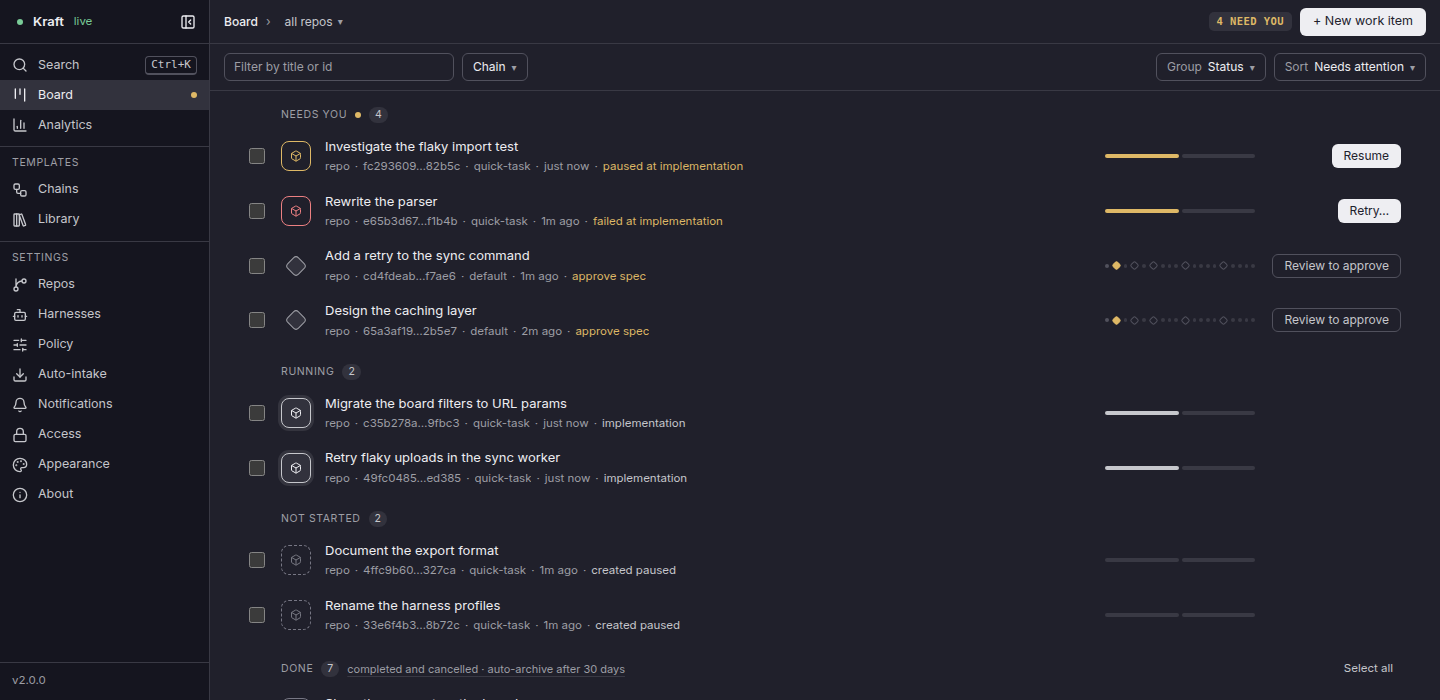
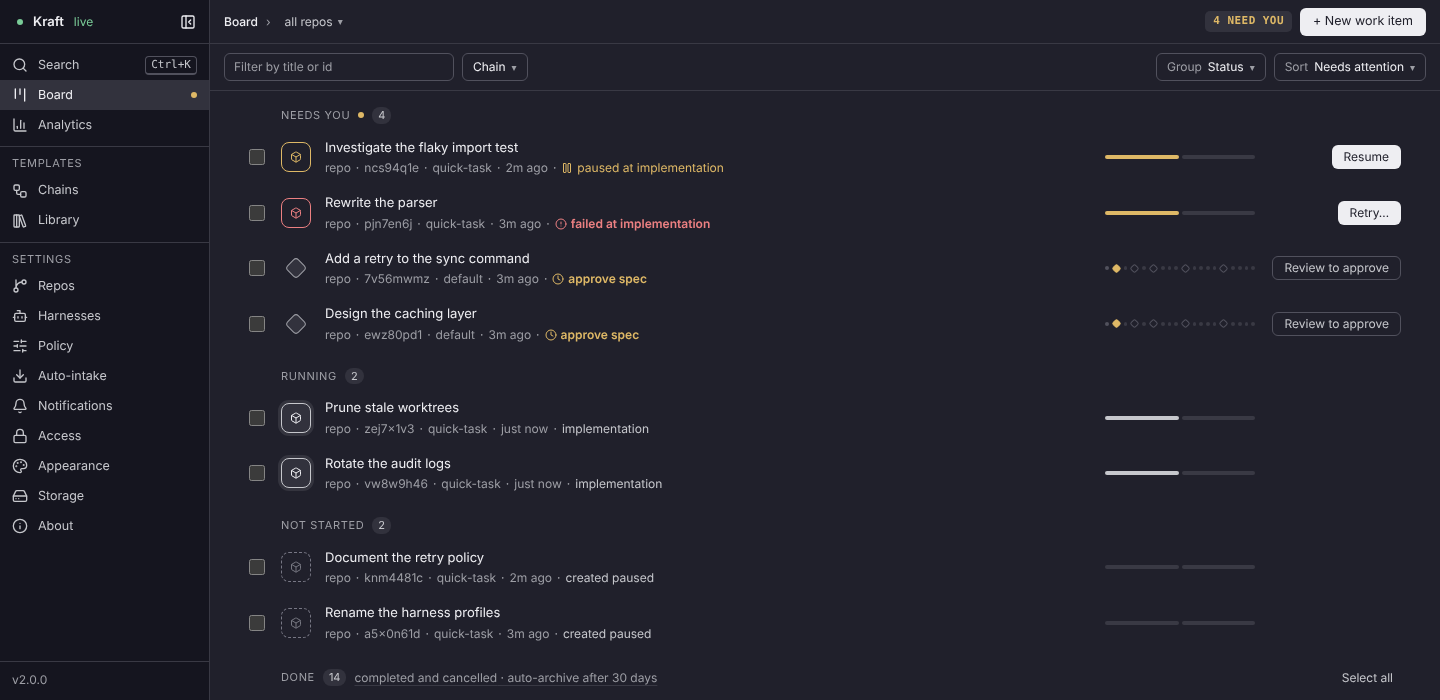
Retake the README and docs screenshots (#804)
* Retake the README and docs screenshots on the reworked UI

Claude-Session: https://claude.ai/code/session_01TznbiANbECgnPa1ZdW2sd6

* Recipe: pin the version for the footer, point the spec step at run/items

Claude-Session: https://claude.ai/code/session_01TznbiANbECgnPa1ZdW2sd6

* Retake all ten screenshots on the rebased UI with the v2.0.0 footer

Claude-Session: https://claude.ai/code/session_01TznbiANbECgnPa1ZdW2sd6

---------

diff --git a/frontend/README.md b/frontend/README.md
@@ -226,8 +226,9 @@ pin the same thing in both.
 ## Retaking the screenshots in `.github/assets/`
 
 Ten images are shown, in six places: the root README uses `board`, `gate`,
-`mobile` and `analytics`; the docs home uses `board`, `gate`, `search`,
-`analytics` and `mobile`; the first-work-item page `board` and `gate`; the web
+`mobile` and `analytics`; the docs home uses `board`, `item`, `review`
+and `mobile` (cropped); the first-work-item page `board`, and the real-chain
+page `gate`; the web
 UI reference (`docsite/content/5.reference/00.web-ui/`) `board`, `item`,
 `review`, `analytics`, `chains` and `policy`; the phone guide
 (`docsite/content/3.guides/1.day-to-day/8.kraft-on-a-phone.md`) `mobile`; and
@@ -238,16 +239,16 @@ Retake the ones whose screen changed, and all of them when a release is cut:
 
 | File | Size | Shows |
 |---|---|---|
-| `board.png` | 1440×700 | the board, grouped by status |
+| `board.png` | 1440×700 | the board, grouped by status: Needs you (paused, failed and two gates, each with its one button), Running, Not started, and the top of Done |
 | `gate.png` | 1440×700 | a work item at `spec_approval`: the review page with the gate's spec rendered |
 | `search.png` | 1440×700 | Ctrl/⌘K with `caching` typed: an item and two documents, over the board |
-| `item.png` | 1440×700 | the same item's page, with the `spec_approval` gate selected: the chain as a graph, and the inspector with the gate's files, open thread and Approve and Reject… |
+| `item.png` | 1440×700 | the same item's page, with the `spec_approval` gate selected: a Review and decide banner, the chain as a graph fitted beside the inspector with a +N cue for what lies past the edge, and the inspector with the gate's files, open thread, what it decides on, and Read spec.md, Review changes, Approve and Reject… |
 | `review.png` | 1440×700 | the review page of that item on `calc.py`, with a comment being written on lines −2 to +2 (the removed line and its replacement), Must fix selected |
-| `analytics.png` | 1440×660 | the Analytics page |
+| `analytics.png` | 1440×660 | the Analytics page: the Range, Repo and Chain menus, the four overview figures, Throughput by week, the Waiting at each gate table and the top of By node |
 | `chains.png` | 1440×700 | Templates › Chains on the `default` chain, with the `spec_approval` gate selected and its settings in the inspector |
 | `policy.png` | 1440×700 | Settings › Policy on its Limits section |
 | `setup.png` | 1440×700 | the setup wizard's first step, on a home with no repo connected |
-| `mobile.png` | 390×844 | the board in the phone layout |
+| `mobile.png` | 390×844 | the board in the phone layout: a paused and a failed card, and a gate card whose Review to approve button opens its review |
 
 All are the default look (graphite, dark, no accent), of a repo named `repo`
 and the items `just dev-seed` files, plus more filed in step 3. `setup` is the
@@ -260,7 +261,18 @@ command without `KRAFT_HOME=$PWD/.dev KRAFT_PORT=8766` in front acts on your own
 Kraft, in `~/.kraft`: run these from the repository root, and type the two
 variables on each one.**
 
-1. Start a clean, seeded instance. No comment sits in these blocks: an
+1. Start a clean, seeded instance. The footer under the sidebar prints the
+   installed version, and a clone without tags builds `0.1.devN`, which also
+   brings an "update" badge. Pin the version a release screenshot shows before
+   anything else (`SETUPTOOLS_SCM_PRETEND_VERSION` is read when the package is
+   built, so it has to reinstall it), and look at the footer in the first
+   picture:
+
+   ```bash
+   SETUPTOOLS_SCM_PRETEND_VERSION=2.0.0 uv sync --reinstall-package kraft-sdlc
+   ```
+
+   Then the instance. No comment sits in these blocks: an
    interactive zsh does not read `#` as one. In one terminal, the backend on
    :8766, serving `frontend/dist`:
 
@@ -295,9 +307,9 @@ variables on each one.**
 3. Give the gate something to show. The seeded item's spec is the fake agent's:
    its front matter says `title: fake spec` (that becomes the heading) and its
    body `fake spec body`. Replace both with something real in
-   `.dev/run/worktrees/<id>/.engineering/specs/<id>.md` and commit the change
-   with `git -C .dev/run/worktrees/<id> commit -am "spec"`; `-a` rather than
-   `add -A`, which would also stage the agent's `.engineering/sessions/` file.
+   `.dev/run/items/<id>/docs/spec.md`, where Kraft keeps an item's documents
+   outside the repository; nothing is committed, and the review page reads the
+   file as it is. Keep the front matter and change only the `title:` and the body.
    The item's id is in its address on the board. For `item`, which lists an
    open thread, add one:
    `KRAFT_HOME=$PWD/.dev KRAFT_PORT=8766 uv run kraft item comment <id> --body "why is this here?"`

diff --git a/README.md b/README.md
@@ -29,7 +29,7 @@ proposes, and rehearses them with `--verify`.
 [What's new in 2.0](https://kraft-sdlc.dev/next/get-started/whats-new)
 has the rest, and what to check before you upgrade from 1.4.
 
-![The Kraft board: work items grouped by Needs you, Running, Not started, and Done](https://raw.githubusercontent.com/itsOmidKarami/kraft/main/.github/assets/board.png)
+![The Kraft board: work items grouped by Needs you (a paused, a failed and two waiting at a gate, each with its one button), Running, Not started, and Done](https://raw.githubusercontent.com/itsOmidKarami/kraft/main/.github/assets/board.png)
 
 - **Gates where a human decides.** Kraft pauses at a spec, a plan, or a merge
   request for your approval; reject with a note and the node that wrote it
@@ -63,7 +63,7 @@ then approve, or reject with a note that re-runs the node that wrote it.
 </td>
 <td width="40%">
 
-![The board at a 390px phone viewport, with bottom tab navigation](https://raw.githubusercontent.com/itsOmidKarami/kraft/main/.github/assets/mobile.png)
+![The board at a 390px phone viewport, with bottom tab navigation and cards for a paused, a failed and two gate-waiting items, each with one button](https://raw.githubusercontent.com/itsOmidKarami/kraft/main/.github/assets/mobile.png)
 
 </td>
 </tr>
@@ -170,7 +170,7 @@ Lead time, cost, and where both go — by node and by repo, over the last 8
 weeks (on a phone, the last 7, 30 or 90 days). Built from the same events the
 board renders live, not a separate pipeline.
 
-![The Analytics view over the last 8 weeks: completed count, median lead time and cost; merged items per week; the top of the cost-by-node table](https://raw.githubusercontent.com/itsOmidKarami/kraft/main/.github/assets/analytics.png)
+![The Analytics view over the last 8 weeks, with Range, Repo and Chain menus: completed count, median lead time, cost and repairs; merged items per week; a Waiting at each gate table; the top of the cost-by-node table](https://raw.githubusercontent.com/itsOmidKarami/kraft/main/.github/assets/analytics.png)
 
 ## Where to go next
 

diff --git a/docsite/content/index.md b/docsite/content/index.md
@@ -54,7 +54,7 @@ ui:
 :::landing-shot
 ---
 src: /assets/board.png
-alt: 'The Kraft board: work items grouped by Needs you, Running, Not started, and Done'
+alt: 'The Kraft board: work items grouped by Needs you (a paused, a failed and two waiting at a gate, each with its one button), Running, Not started, and Done'
 crop: 210 0 1230 688
 width: 1440
 ---
@@ -72,8 +72,8 @@ ui:
 :::::landing-shot
 ---
 src: /assets/item.png
-alt: "The spec_approval gate on an item's page: waiting for you, the files it decides on, an open thread, reject to spec, and Review changes, Approve and Reject buttons"
-crop: 1036 240 380 444
+alt: "The spec_approval gate on an item's page: waiting for you, the files it decides on, an open thread, reject to spec, and Read spec.md, Review changes, Approve and Reject buttons"
+crop: 1036 250 380 434
 width: 1440
 ---
 **The gate.** What it decides on, where a rejection goes, and the buttons. [The review page](/reference/web-ui/review-page)
@@ -92,11 +92,11 @@ width: 1440
 :::::landing-shot
 ---
 src: /assets/mobile.png
-alt: 'The board at a 390px phone viewport: a failed item with a Retry button, and an item waiting at approve spec with Approve and Reject on the card'
+alt: 'The board at a 390px phone viewport: a failed item with a Retry button, and an item waiting at approve spec with a Review to approve button on the card'
 crop: 0 330 390 444
 width: 390
 ---
-**On your phone.** The same board at the same address, laid out for a phone. Approve or reject a gate from the card itself, and answer a question or retry a stopped item from its page. [The phone layout](/guides/day-to-day/kraft-on-a-phone) · [Reach it from your phone](/guides/run/remote-access)
+**On your phone.** The same board at the same address, laid out for a phone. Open a gate's review from the card's one button, and answer a question or retry a stopped item from its page. [The phone layout](/guides/day-to-day/kraft-on-a-phone) · [Reach it from your phone](/guides/run/remote-access)
 :::::
 ::::
 

diff --git a/docsite/content/5.reference/00.web-ui/2.item-page.md b/docsite/content/5.reference/00.web-ui/2.item-page.md
@@ -5,7 +5,7 @@ description: What an item's page shows, from the main action to the chain graph 
 
 An item's page shows one [work item](/concepts/vocabulary#work-item): its brief, its [chain](/concepts/vocabulary#chain) drawn as a graph, and an inspector for whatever you select. This page names the header's actions, the graph and the inspector's tabs, one heading for each part.
 
-![An item's page: the chain drawn as a graph with the spec_approval gate selected, and the inspector on the right showing the gate's files, open threads, and Approve and Reject buttons](/assets/item.png)
+![An item's page: a banner reading Waiting for your approval with a Review and decide button, the chain drawn as a graph with the spec_approval gate selected and a +13 cue for the nodes past the edge, and the inspector on the right showing the gate's files, an open thread, what it decides on, and the Read spec.md, Review changes, Approve and Reject buttons](/assets/item.png)
 
 ## The page
 

diff --git a/docsite/content/1.get-started/2.first-work-item.md b/docsite/content/1.get-started/2.first-work-item.md
@@ -193,7 +193,7 @@ While it runs, `kraft view list` shows its status and node. To watch it work,
 open the board in your browser, or run `kraft view watch` in a third terminal. `watch` takes no ID, redraws a live board on every event, and
 holds its terminal until you press Ctrl-C. The web board looks like this:
 
-![The Kraft board: work items grouped by Needs you, Running, Not started, and Done](/assets/board.png)
+![The Kraft board: work items grouped by Needs you (a paused, a failed and two waiting at a gate, each with its one button), Running, Not started, and Done](/assets/board.png)
 
 The [Web UI](/reference/web-ui) reference describes each screen in the picture.
 

diff --git a/docsite/content/5.reference/00.web-ui/1.board.md b/docsite/content/5.reference/00.web-ui/1.board.md
@@ -5,7 +5,7 @@ description: The board's four groups, what the button on a row does, the filters
 
 The board lists every [work item](/concepts/vocabulary#work-item), grouped by what it needs from you. This page names its groups, a row's buttons, the filters, and the side panel that opens when you click a row.
 
-![The Kraft board: work items grouped by Needs you, Running, Not started, and Done](/assets/board.png)
+![The Kraft board: work items grouped by Needs you (a paused, a failed and two waiting at a gate, each with its one button), Running, Not started, and Done](/assets/board.png)
 
 ## The groups
 

diff --git a/docsite/content/3.guides/1.day-to-day/8.kraft-on-a-phone.md b/docsite/content/3.guides/1.day-to-day/8.kraft-on-a-phone.md
@@ -11,7 +11,7 @@ Your phone must be able to reach the server. See [Remote access](/guides/run/rem
 
 ## The layout
 
-![The board at a 390px phone viewport, with bottom tab navigation](/assets/mobile.png){width="300"}
+![The board at a 390px phone viewport, with bottom tab navigation and cards for a paused, a failed and two gate-waiting items, each with one button](/assets/mobile.png){width="300"}
 
 The layout switches on its own when the window is narrower than 768 pixels, with
 no setting to turn on. It is the same app at the same address, so a link copied
